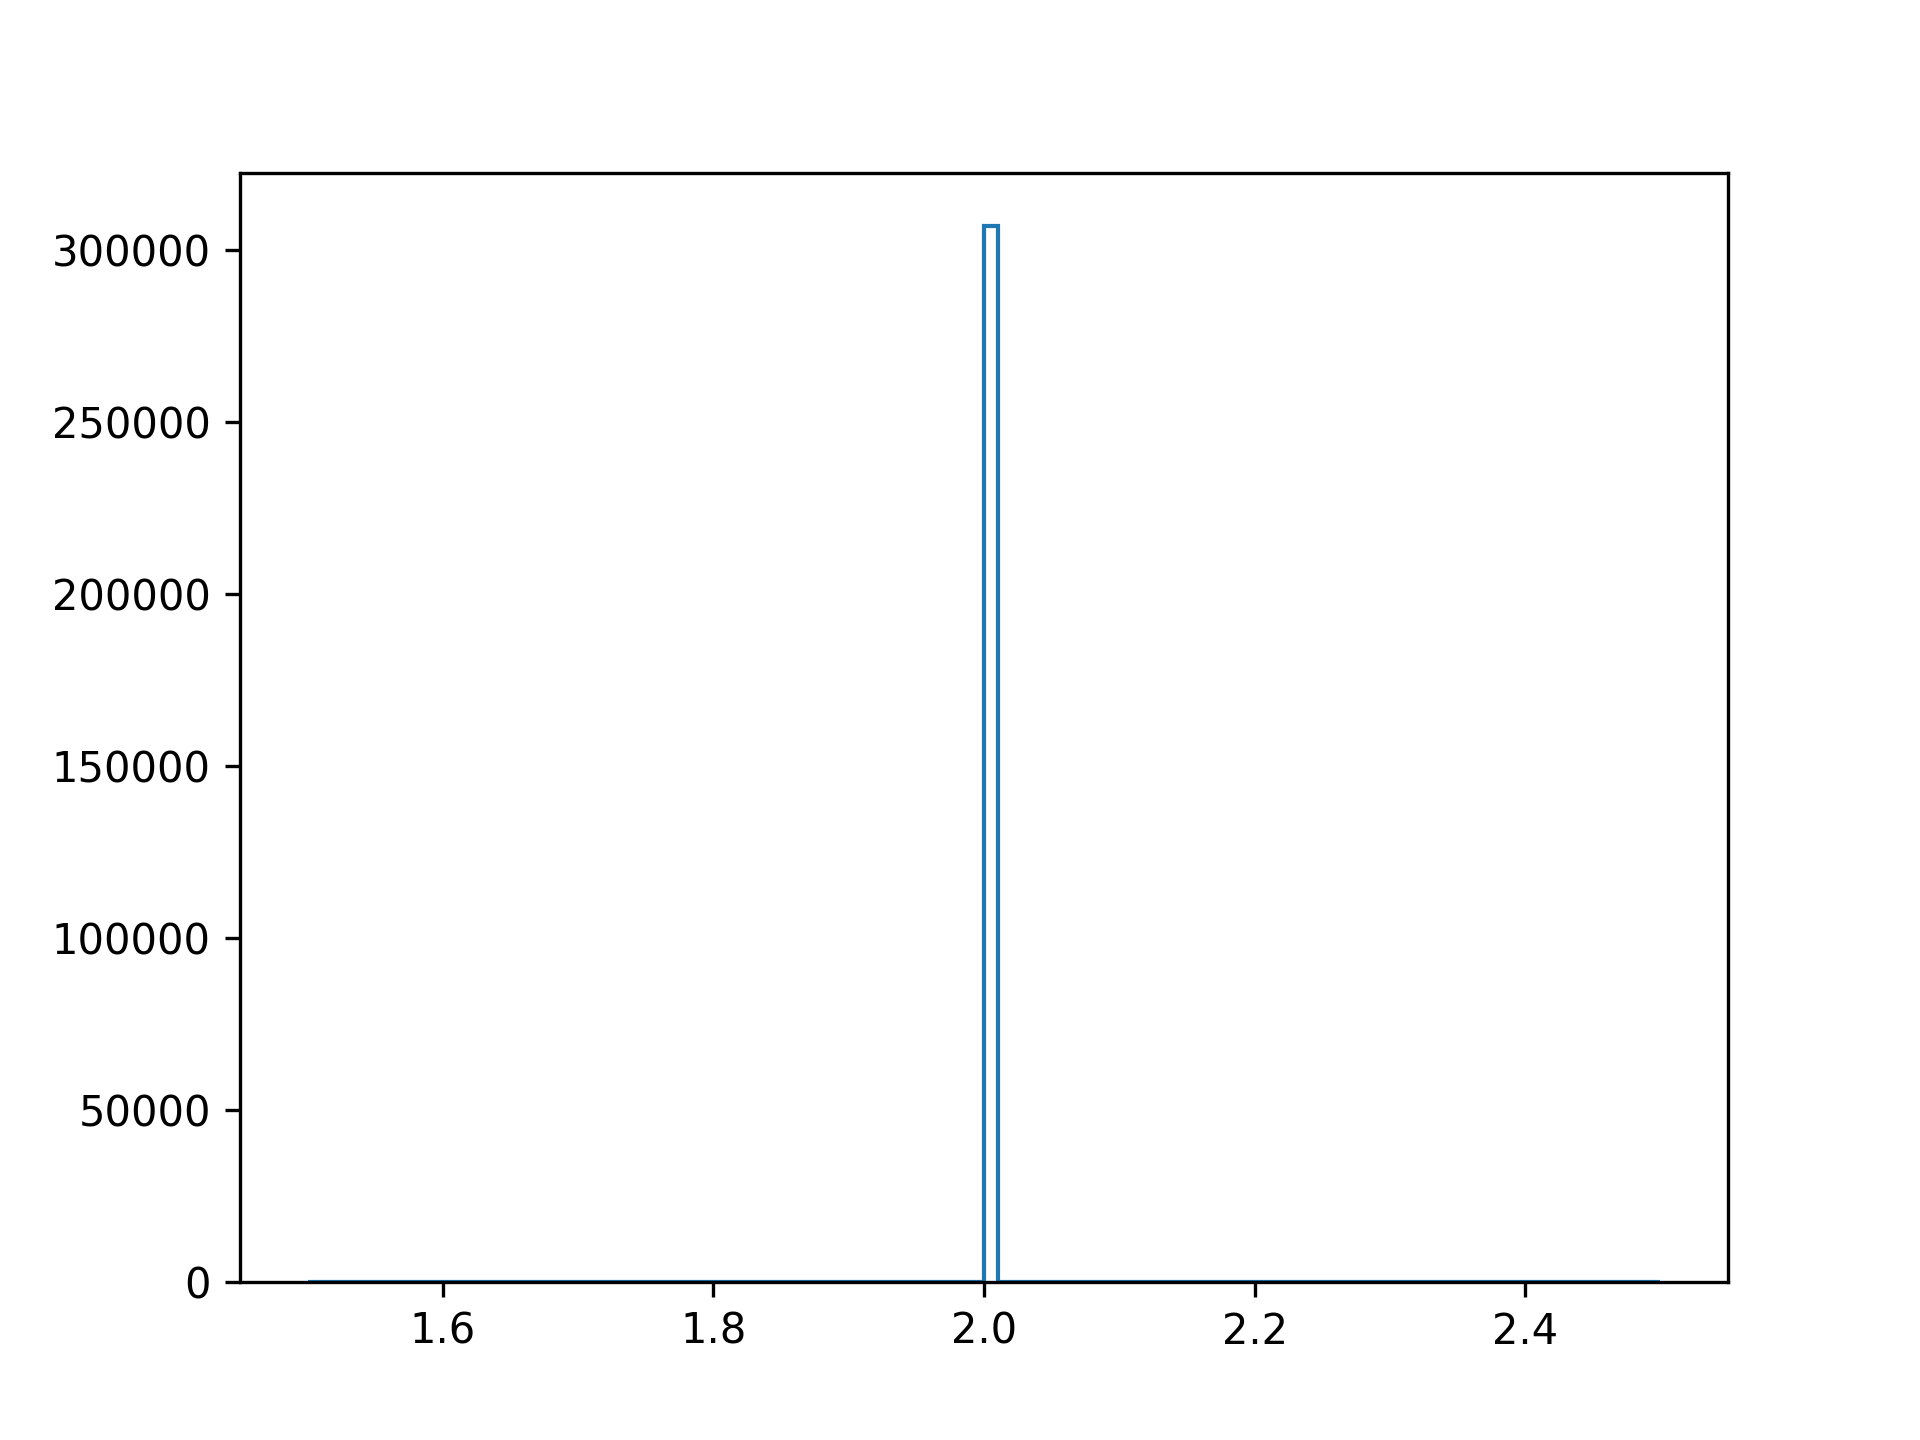
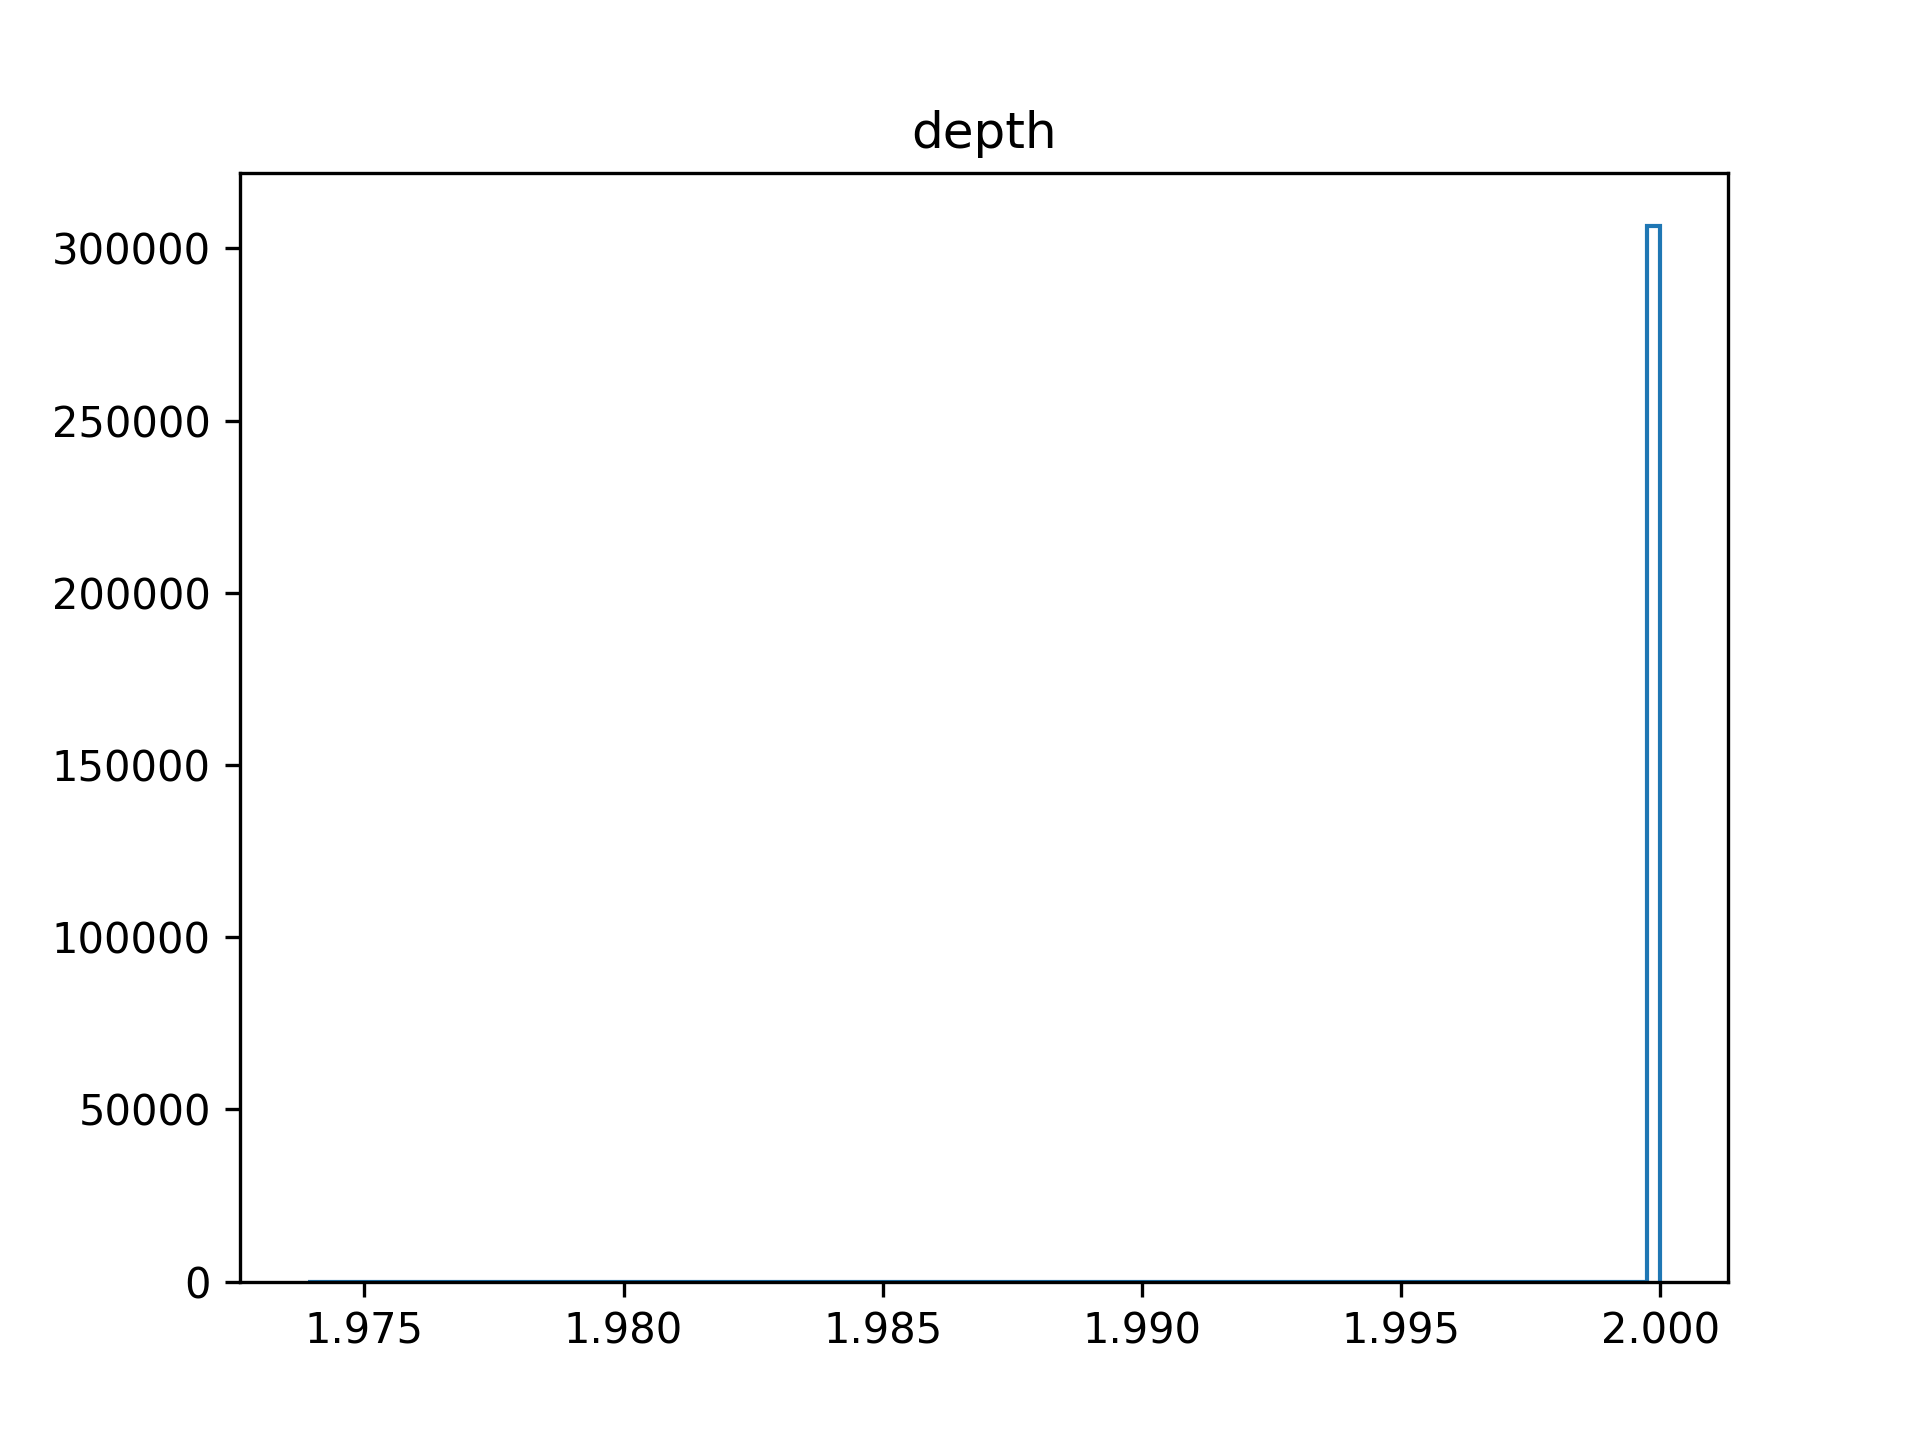
Auto commit

diff --git a/third_test_point_cloud.py b/third_test_point_cloud.py
@@ -26,7 +26,10 @@ depth_map = clipped_depth
 
 data = depth_map.flatten()
 counts, bins = np.histogram(data, bins=100)
+plt.figure()
 plt.stairs(counts, bins)
+
+plt.title("depth")
 
 plt.savefig("hist1.png", dpi=300)
 
